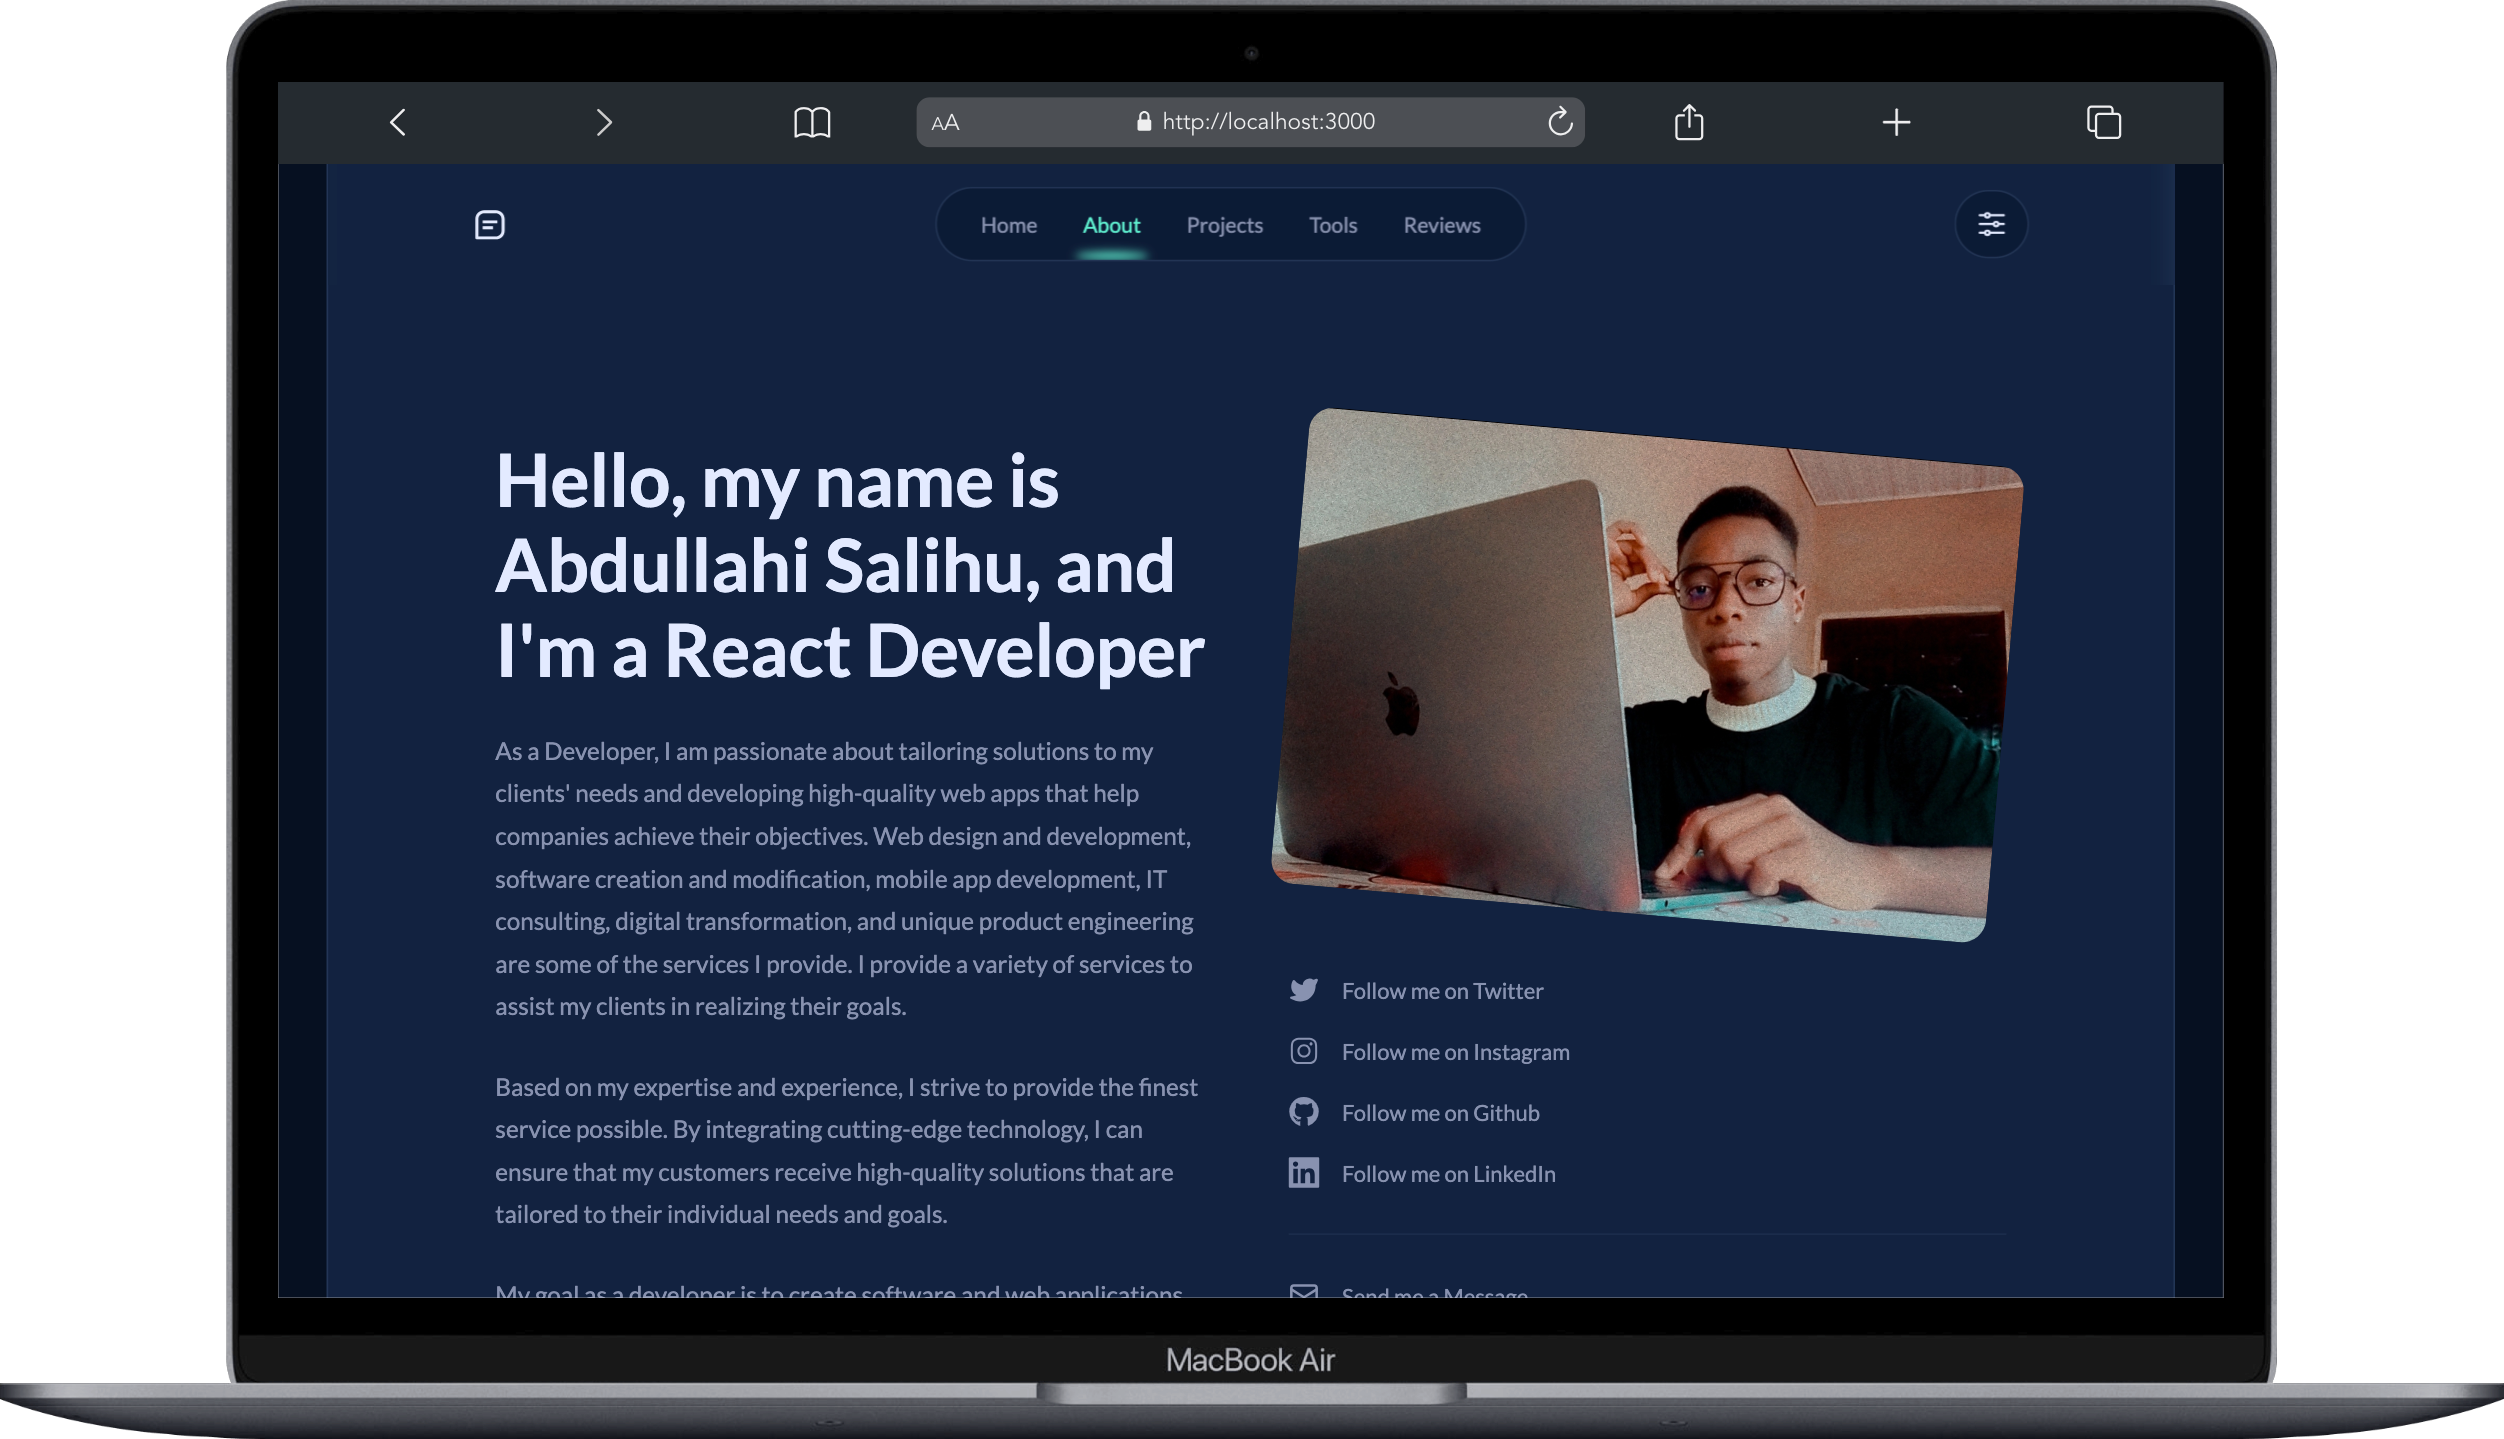
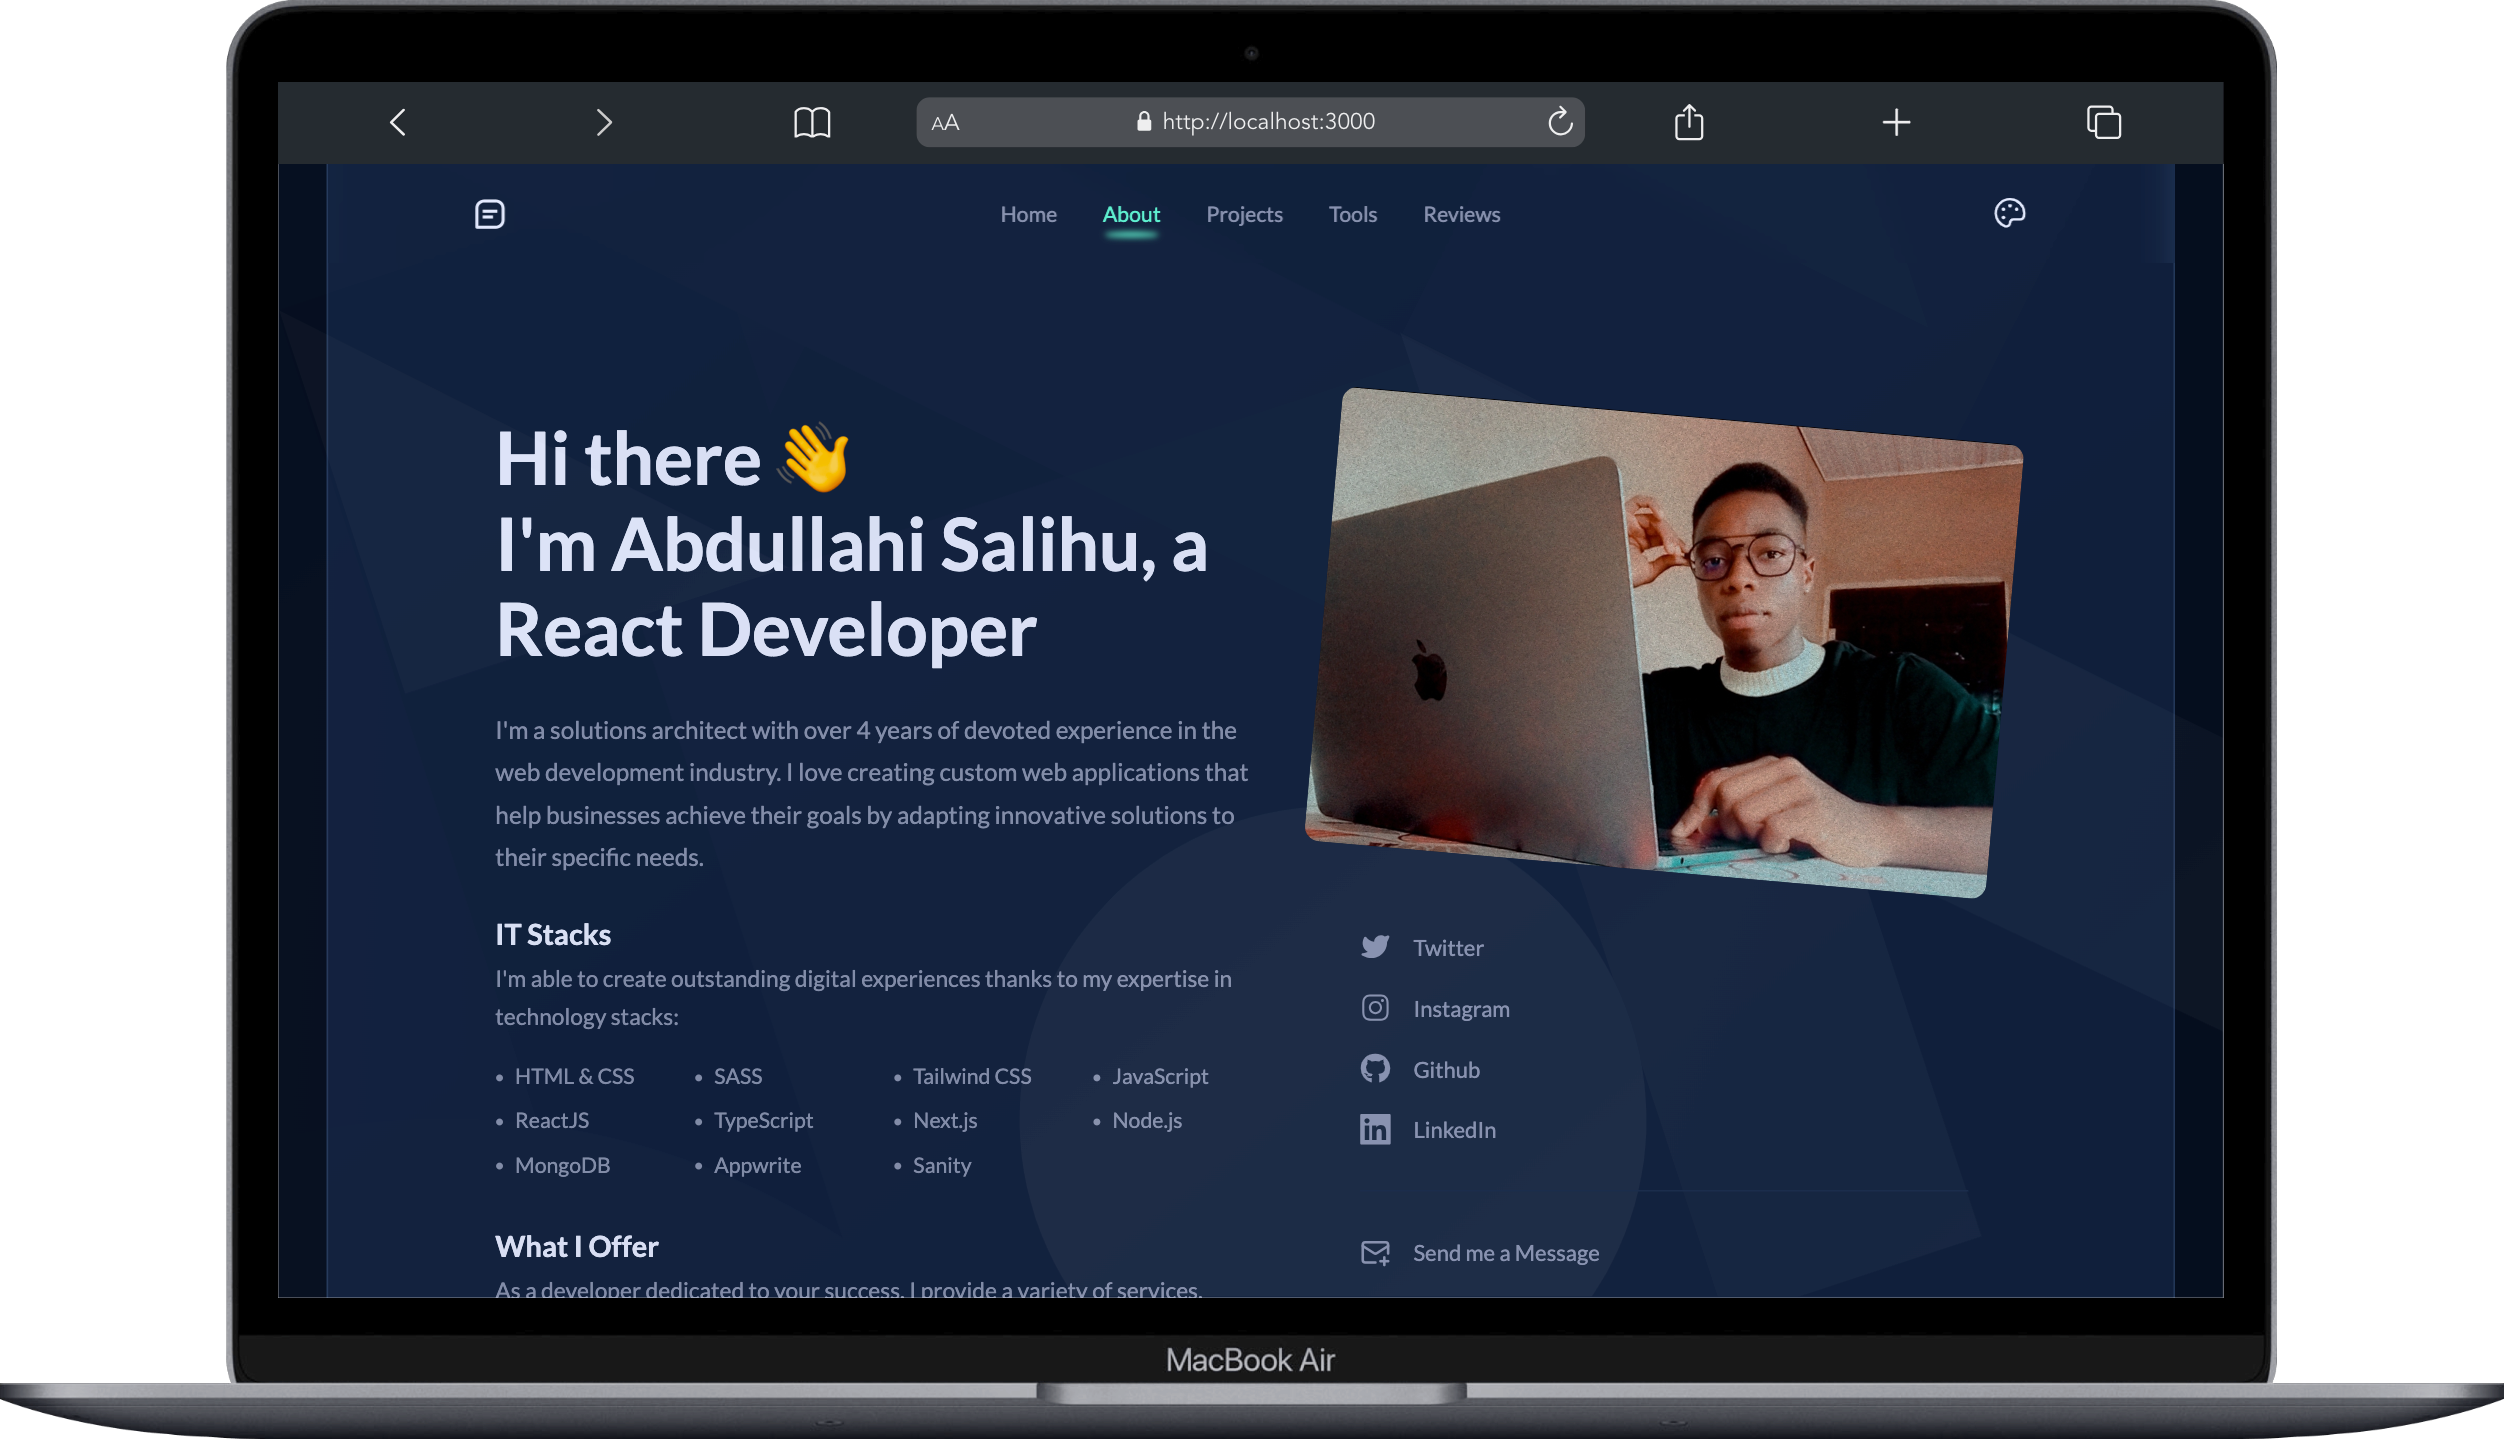
updated

diff --git a/client/src/constants/icons.js b/client/src/constants/icons.js
@@ -2,36 +2,38 @@ import {
   BiChevronDown as DownArrow,
   BiChevronUp as UpArrow,
   BiChevronsRight as RightArrow,
+  BiMessageSquareDetail as AboutPageIcon,
 } from "react-icons/bi";
-import { IoOpenOutline as UrlIcon } from "react-icons/io5";
-import { IoIosArrowRoundBack as BackArrow } from "react-icons/io";
-import { IoClose as CloseIcon } from "react-icons/io5";
-import { HiOutlineAdjustmentsHorizontal as AdjustmentIcon } from "react-icons/hi2";
-import { AiOutlineStar as StarIcon } from "react-icons/ai";
-import { AiOutlineFolderOpen as PreviewIcon } from "react-icons/ai";
-
-// navbar
-import { RiHomeLine as HomePageIcon } from "react-icons/ri";
-import { BiMessageSquareDetail as AboutPageIcon } from "react-icons/bi";
-import { BsFolder2Open as ProjectsPageIcon } from "react-icons/bs";
-import { LiaToolsSolid as ToolsPageIcon } from "react-icons/lia";
-import { TbError404 as ErrorPageIcon } from "react-icons/tb";
+import {
+  IoOpenOutline as UrlIcon,
+  IoClose as CloseIcon,
+  IoConstructOutline as ConstructionIcon,
+} from "react-icons/io5";
+import {
+  AiOutlineStar as StarIcon,
+  AiOutlineFolderOpen as PreviewIcon,
+} from "react-icons/ai";
+import {
+  RiHomeLine as HomePageIcon,
+  RiUser4Line as UserIcon,
+} from "react-icons/ri";
+import {
+  TbError404 as ErrorPageIcon,
+  TbBrandMailgun as MailToIcon,
+  TbBrandTwitterFilled as TwitterIcon,
+} from "react-icons/tb";
 import {
   GoCodeReview as ReviewsPageIcon,
   GoWorkflow as QualificationsPageIcon,
 } from "react-icons/go";
-
-// form
-import { RiUser4Line as UserIcon } from "react-icons/ri";
 import {
   PiUser as FirstNameIcon,
   PiUsers as LastNameIcon,
 } from "react-icons/pi";
-import { TbBrandMailgun as MailToIcon } from "react-icons/tb";
-import { IoConstructOutline as ConstructionIcon } from "react-icons/io5";
-
-// socials
-import { TbBrandTwitterFilled as TwitterIcon } from "react-icons/tb";
+import { IoColorPaletteOutline as AdjustmentIcon } from "react-icons/io5";
+import { IoIosArrowRoundBack as BackArrow } from "react-icons/io";
+import { BsFolder2Open as ProjectsPageIcon } from "react-icons/bs";
+import { LiaToolsSolid as ToolsPageIcon } from "react-icons/lia";
 import { RxInstagramLogo as InstagramIcon } from "react-icons/rx";
 import { FaGithub as GithubIcon } from "react-icons/fa";
 import { GrLinkedin as LinkedInIcon } from "react-icons/gr";

diff --git a/client/src/pages/document/index.js b/client/src/pages/document/index.js
@@ -34,8 +34,7 @@ export const DocumentPage = () => {
 
       <div className="document_container-left">
         <h1 className="title">
-          Hi there 👋 <br /> My name is Abdullahi Salihu, and I'm a React
-          Developer
+          Hi there 👋 <br /> I'm Abdullahi Salihu, a React Developer
         </h1>
         <p className="subtitle">
           I'm a solutions architect with over {yearsOfExperience} years of

diff --git a/client/src/pages/document/document.scss b/client/src/pages/document/document.scss
@@ -50,13 +50,15 @@
   }
 
   .document_container-right {
-    gap: 2rem;
+    gap: 4rem;
     max-width: 45rem;
     height: 100%;
     top: 10rem;
 
     .socials {
-      margin-top: 2rem;
+      max-width: 40rem;
+      width: 100%;
+      margin: 0 auto;
 
       .socials_top {
         gap: 2rem;
